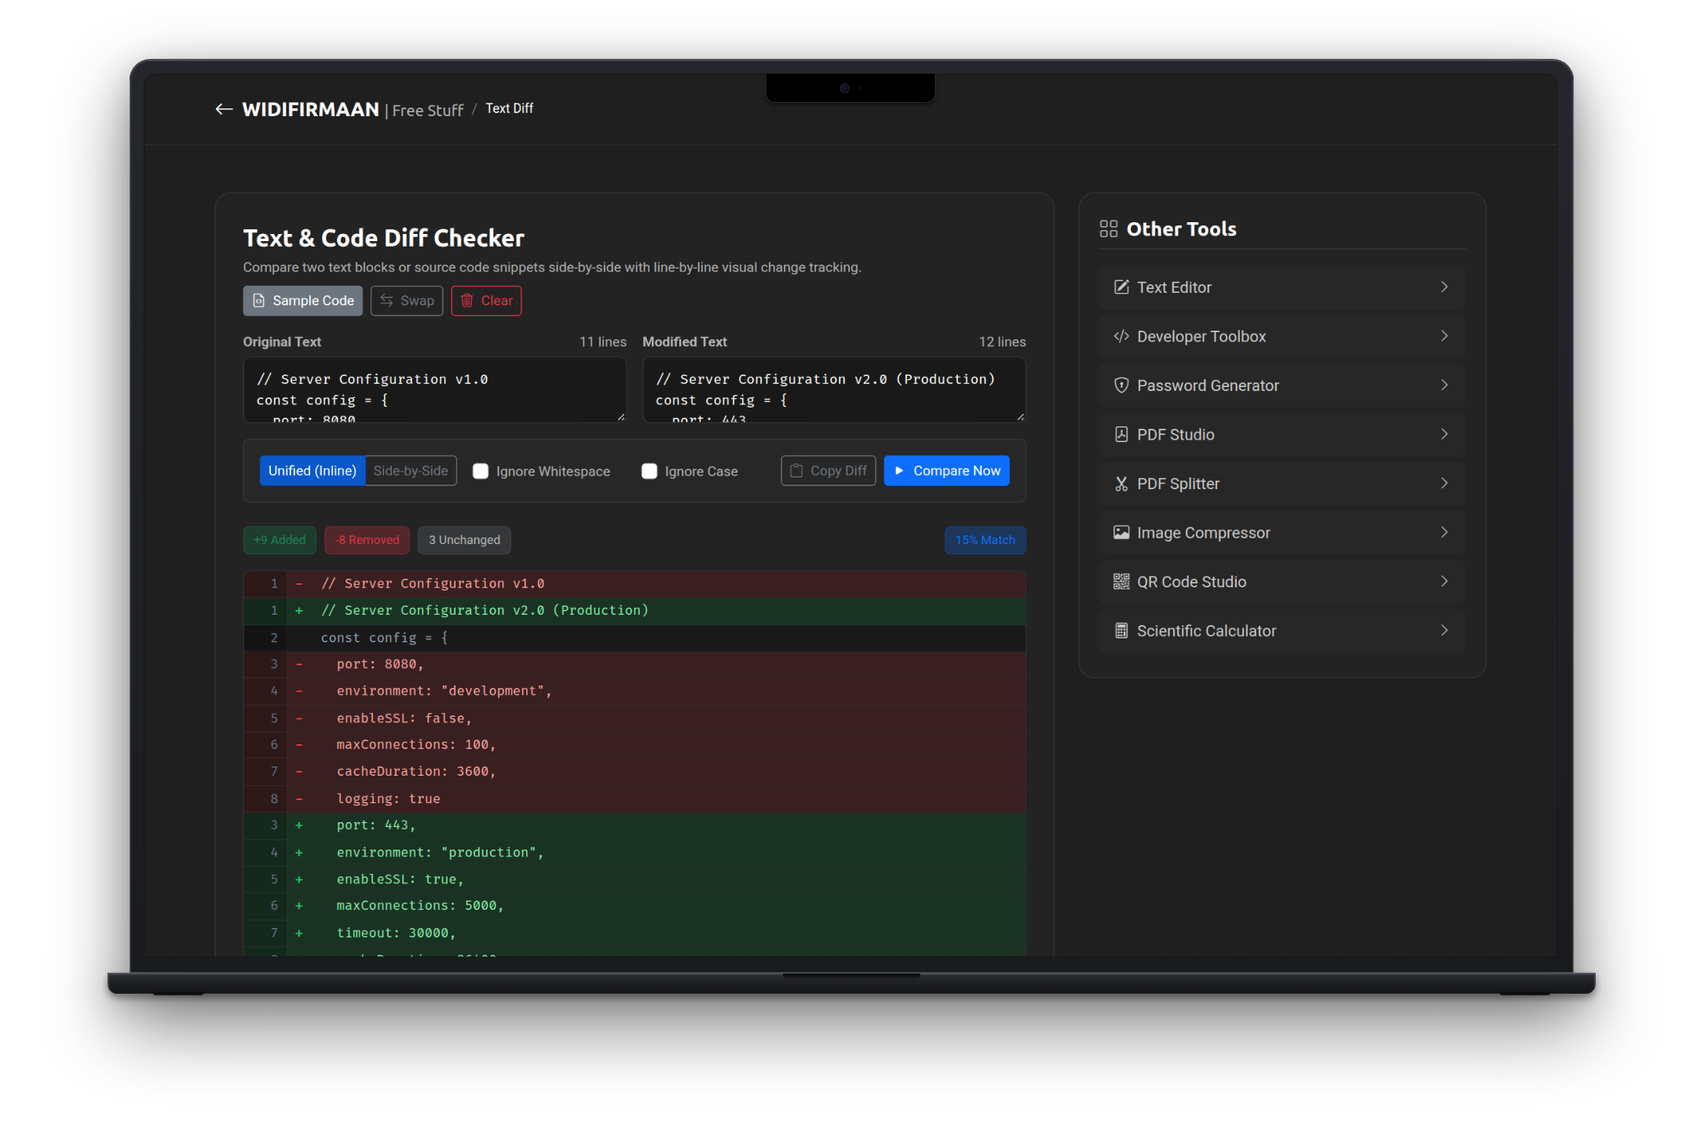
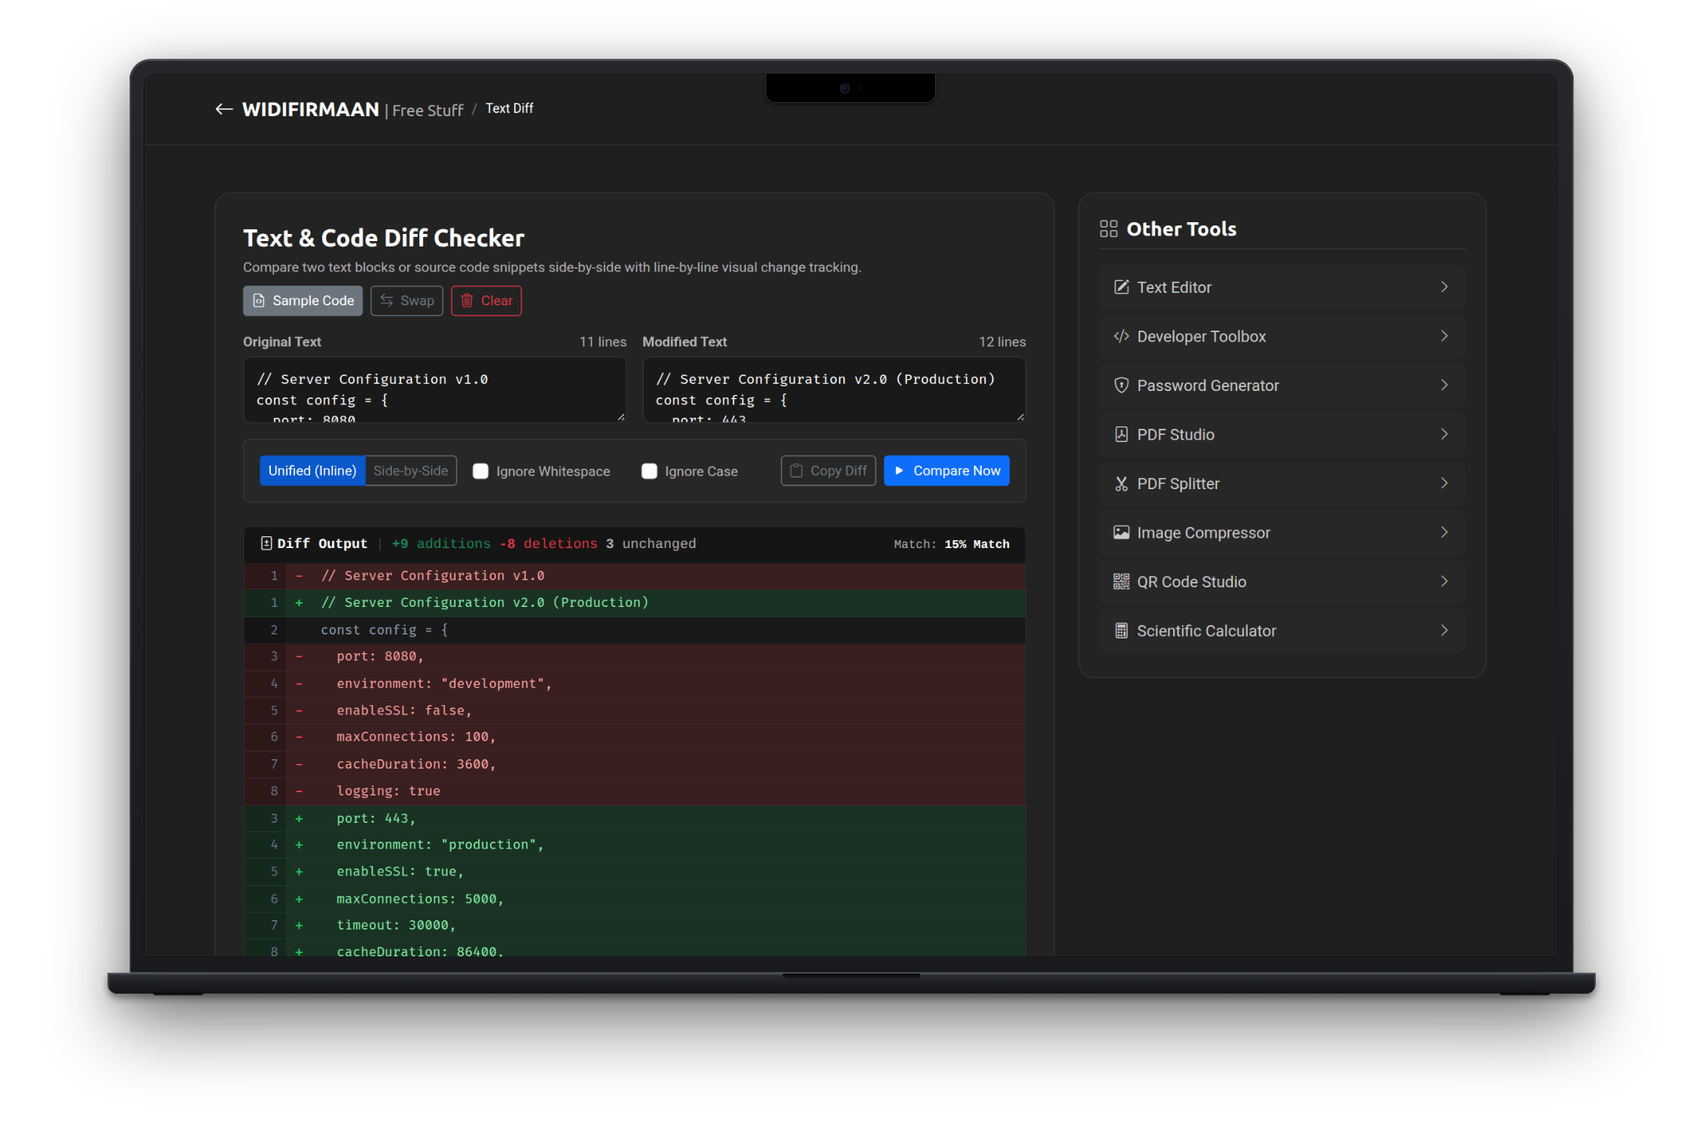
fix(ui): remove unnecessary elements and bloat wording, fix steganography desktop layout, and clean up diff stats

Changed region(s): [[0.1235, 0.4619, 0.6175, 0.8621], [0.5249, 0.4619, 0.6175, 0.4927], [0.3705, 0.4619, 0.4014, 0.4927]]

diff --git a/tools/color-palette.html b/tools/color-palette.html
@@ -5,7 +5,7 @@
   <meta charset="utf-8">
   <meta content="width=device-width, initial-scale=1.0" name="viewport">
   <title>Color Palette Extractor - Extract Colors from Images - WIDIFIRMAAN Tools</title>
-  <meta name="description" content="100% private, client-side color palette extractor. Extract dominant colors from images, check WCAG accessibility contrast, and export CSS/Tailwind variables.">
+  <meta name="description" content="100% private, client-side color palette extractor. Extract dominant colors from images and export CSS, HEX, and Tailwind variables.">
   <link href="../assets/img/favicon.png" rel="icon">
   <link href="../assets/img/apple-touch-icon.png" rel="apple-touch-icon">
   <link href="../assets/vendor/bootstrap/css/bootstrap.min.css" rel="stylesheet">
@@ -65,12 +65,6 @@
       font-size: 0.75rem;
       color: #94a3b8;
     }
-    .contrast-badge {
-      font-size: 0.72rem;
-      padding: 2px 6px;
-      border-radius: 4px;
-      font-weight: 600;
-    }
     .preview-img-container {
       max-height: 320px;
       overflow: hidden;
@@ -119,7 +113,7 @@
                 <div>
                   <h2 class="fs-4 fw-bold text-white mb-1">Color Palette Extractor</h2>
                   <p class="text-secondary small mb-0">
-                    Extract dominant color palettes from any photo or design locally in your browser. Inspect WCAG contrast and export variables.
+                    Extract dominant color palettes from any photo or design locally in your browser. Export HEX, CSS variables, or download a palette card.
                   </p>
                 </div>
                 <div class="d-flex gap-2">
@@ -178,28 +172,6 @@
                 <h6 class="text-white fw-bold mb-2">Dominant Colors (Click to Copy HEX):</h6>
                 <div class="palette-swatches-grid" id="swatchesGrid">
                   <!-- Swatches dynamically populated -->
-                </div>
-
-                <!-- WCAG Accessibility & Contrast Table -->
-                <div class="p-3 rounded border border-secondary border-opacity-25 mb-3" style="background: rgba(255, 255, 255, 0.02);">
-                  <h6 class="text-white fw-bold mb-2"><i class="bi bi-universal-access me-2 text-primary"></i>WCAG 2.1 Accessibility Contrast</h6>
-                  <p class="text-secondary small mb-3">Contrast ratio of each extracted color against white and dark backgrounds:</p>
-                  <div class="table-responsive">
-                    <table class="table table-dark table-sm table-borderless align-middle mb-0" style="background: transparent;">
-                      <thead>
-                        <tr class="text-secondary small border-bottom border-secondary border-opacity-25">
-                          <th>Color</th>
-                          <th>HEX</th>
-                          <th>vs White (#FFF)</th>
-                          <th>vs Black (#000)</th>
-                          <th>Best Text Match</th>
-                        </tr>
-                      </thead>
-                      <tbody id="contrastTableBody" class="small">
-                        <!-- Populated dynamically -->
-                      </tbody>
-                    </table>
-                  </div>
                 </div>
 
               </div>
@@ -281,7 +253,6 @@
     const colorCountRange = document.getElementById('colorCountRange');
     const colorCountLabel = document.getElementById('colorCountLabel');
     const swatchesGrid = document.getElementById('swatchesGrid');
-    const contrastTableBody = document.getElementById('contrastTableBody');
     const btnSample = document.getElementById('btnSample');
     const btnCopyCss = document.getElementById('btnCopyCss');
     const btnCopyJson = document.getElementById('btnCopyJson');
@@ -431,7 +402,6 @@
       });
 
       renderSwatches();
-      renderContrastTable();
     }
 
     function rgbToHex(r, g, b) {
@@ -477,31 +447,6 @@
           });
         });
         swatchesGrid.appendChild(card);
-      });
-    }
-
-    function renderContrastTable() {
-      contrastTableBody.innerHTML = '';
-      const whiteLum = 1.0;
-      const blackLum = 0.0;
-
-      extractedColors.forEach(c => {
-        const ratioWhite = getContrastRatio(c.lum, whiteLum);
-        const ratioBlack = getContrastRatio(c.lum, blackLum);
-
-        const badgeWhite = ratioWhite >= 7.0 ? '<span class="contrast-badge bg-success text-white">AAA (Pass)</span>' : (ratioWhite >= 4.5 ? '<span class="contrast-badge bg-primary text-white">AA (Pass)</span>' : '<span class="contrast-badge bg-danger text-white">Fail</span>');
-        const badgeBlack = ratioBlack >= 7.0 ? '<span class="contrast-badge bg-success text-white">AAA (Pass)</span>' : (ratioBlack >= 4.5 ? '<span class="contrast-badge bg-primary text-white">AA (Pass)</span>' : '<span class="contrast-badge bg-danger text-white">Fail</span>');
-        const bestText = ratioWhite >= ratioBlack ? '<span class="text-white fw-bold">White (#FFF)</span>' : '<span class="text-secondary fw-bold">Black (#000)</span>';
-
-        const row = document.createElement('tr');
-        row.innerHTML = `
-          <td><span class="d-inline-block rounded-circle me-2" style="width: 14px; height: 14px; background-color: ${c.hex}; vertical-align: middle;"></span></td>
-          <td class="font-monospace text-white">${c.hex}</td>
-          <td>${ratioWhite.toFixed(2)}:1 ${badgeWhite}</td>
-          <td>${ratioBlack.toFixed(2)}:1 ${badgeBlack}</td>
-          <td>${bestText}</td>
-        `;
-        contrastTableBody.appendChild(row);
       });
     }
 

diff --git a/tools/text-diff.html b/tools/text-diff.html
@@ -99,11 +99,6 @@
     .diff-side-col:last-child {
       border-right: none;
     }
-    .diff-badge {
-      font-size: 0.78rem;
-      padding: 4px 10px;
-      border-radius: 6px;
-    }
   </style>
 </head>
 
@@ -198,16 +193,22 @@
                 </div>
               </div>
 
-              <!-- Statistics & Summary Bar -->
-              <div class="d-flex align-items-center gap-2 mb-3 flex-wrap" id="diffStatsBar">
-                <span class="diff-badge bg-success bg-opacity-25 text-success border border-success border-opacity-25" id="badgeAdded">+0 Added</span>
-                <span class="diff-badge bg-danger bg-opacity-25 text-danger border border-danger border-opacity-25" id="badgeRemoved">-0 Removed</span>
-                <span class="diff-badge bg-secondary bg-opacity-25 text-secondary border border-secondary border-opacity-25" id="badgeUnchanged">0 Unchanged</span>
-                <span class="diff-badge bg-primary bg-opacity-25 text-primary border border-primary border-opacity-25 ms-auto" id="badgeSimilarity">100% Identical</span>
+              <!-- Diff Header & Summary Bar -->
+              <div class="d-flex align-items-center justify-content-between px-3 py-2 border border-secondary border-opacity-25 border-bottom-0 rounded-top text-secondary small flex-wrap gap-2" style="background: #151515;">
+                <div class="d-flex align-items-center gap-2 font-monospace flex-wrap">
+                  <span class="text-white fw-semibold"><i class="bi bi-file-diff me-1"></i>Diff Output</span>
+                  <span class="text-secondary opacity-25">|</span>
+                  <span class="text-success"><strong id="badgeAdded">+0</strong> additions</span>
+                  <span class="text-danger"><strong id="badgeRemoved">-0</strong> deletions</span>
+                  <span class="text-secondary"><strong id="badgeUnchanged">0</strong> unchanged</span>
+                </div>
+                <div class="font-monospace text-secondary small">
+                  Match: <span class="text-white fw-bold" id="badgeSimilarity">100%</span>
+                </div>
               </div>
 
               <!-- Visual Diff Output Box -->
-              <div id="diffOutput" class="diff-output-container p-0">
+              <div id="diffOutput" class="diff-output-container p-0 rounded-bottom rounded-top-0 border-top-0">
                 <div class="p-4 text-center text-secondary small">
                   <i class="bi bi-arrow-left-right fs-2 mb-2 d-block opacity-50"></i>
                   Enter text above and click <strong>Compare Now</strong> to view the visual difference.
@@ -361,10 +362,10 @@
             <i class="bi bi-arrow-left-right fs-2 mb-2 d-block opacity-50"></i>
             Enter text above and click <strong>Compare Now</strong> to view the visual difference.
           </div>`;
-        badgeAdded.textContent = '+0 Added';
-        badgeRemoved.textContent = '-0 Removed';
-        badgeUnchanged.textContent = '0 Unchanged';
-        badgeSimilarity.textContent = '100% Identical';
+        badgeAdded.textContent = '+0';
+        badgeRemoved.textContent = '-0';
+        badgeUnchanged.textContent = '0';
+        badgeSimilarity.textContent = '100%';
         lastDiffResult = null;
         return;
       }
@@ -387,9 +388,9 @@
         else unchangedCount++;
       });
 
-      badgeAdded.textContent = `+${addedCount} Added`;
-      badgeRemoved.textContent = `-${removedCount} Removed`;
-      badgeUnchanged.textContent = `${unchangedCount} Unchanged`;
+      badgeAdded.textContent = `+${addedCount}`;
+      badgeRemoved.textContent = `-${removedCount}`;
+      badgeUnchanged.textContent = `${unchangedCount}`;
 
       const totalOperations = addedCount + removedCount + unchangedCount;
       const similarity = totalOperations > 0 ? Math.round((unchangedCount / totalOperations) * 100) : 100;

diff --git a/tools/regex-visualizer.html b/tools/regex-visualizer.html
@@ -215,24 +215,6 @@
             <div class="d-flex flex-column gap-4">
               <div class="tool-sidebar-card">
                 <h5 class="fw-bold mb-3 pb-2 border-bottom border-secondary border-opacity-25 text-white">
-                  <i class="bi bi-book me-2 text-secondary"></i>Regex Cheat Sheet
-                </h5>
-                <div class="text-secondary small d-flex flex-column gap-2">
-                  <div class="d-flex justify-content-between"><code class="text-info">\d</code> <span>Any digit (0-9)</span></div>
-                  <div class="d-flex justify-content-between"><code class="text-info">\w</code> <span>Word character</span></div>
-                  <div class="d-flex justify-content-between"><code class="text-info">\s</code> <span>Whitespace space/tab</span></div>
-                  <div class="d-flex justify-content-between"><code class="text-info">[abc]</code> <span>Any of a, b, or c</span></div>
-                  <div class="d-flex justify-content-between"><code class="text-info">[^a]</code> <span>Not 'a'</span></div>
-                  <div class="d-flex justify-content-between"><code class="text-info">a* / a+</code> <span>0+ / 1+ occurrences</span></div>
-                  <div class="d-flex justify-content-between"><code class="text-info">a?</code> <span>Optional (0 or 1)</span></div>
-                  <div class="d-flex justify-content-between"><code class="text-info">a{2,5}</code> <span>Between 2 and 5 times</span></div>
-                  <div class="d-flex justify-content-between"><code class="text-info">(a|b)</code> <span>Either 'a' or 'b'</span></div>
-                  <div class="d-flex justify-content-between"><code class="text-info">^ / $</code> <span>Start / End of line</span></div>
-                </div>
-              </div>
-
-              <div class="tool-sidebar-card">
-                <h5 class="fw-bold mb-3 pb-2 border-bottom border-secondary border-opacity-25 text-white">
                   <i class="bi bi-grid me-2 text-secondary"></i>Other Tools
                 </h5>
                 <div class="d-flex flex-column gap-1">

diff --git a/tools/file-encryptor.html b/tools/file-encryptor.html
@@ -51,9 +51,9 @@
             <div class="tool-card">
               <div class="d-flex justify-content-between align-items-start mb-3 flex-wrap gap-2">
                 <div>
-                  <h2 class="fs-4 fw-bold text-white mb-1">Client-Side Military-Grade Encryption</h2>
+                  <h2 class="fs-4 fw-bold text-white mb-1">File Encryptor & Decryptor</h2>
                   <p class="text-secondary small mb-0">
-                    Encrypt any file with AES-GCM 256-bit & PBKDF2 (100,000 iterations). 100% processed in memory.
+                    Encrypt and decrypt files locally with AES-256-GCM. 100% processed in-browser.
                   </p>
                 </div>
                 <button type="button" class="btn btn-sm btn-outline-secondary" id="btnLoadSampleDoc">
@@ -218,18 +218,6 @@
           <!-- Sidebar Column (Col 4) -->
           <div class="col-lg-4">
             <div class="d-flex flex-column gap-4">
-              <div class="tool-sidebar-card">
-                <h5 class="fw-bold mb-3 pb-2 border-bottom border-secondary border-opacity-25 text-white">
-                  <i class="bi bi-info-circle me-2 text-secondary"></i>Security Details
-                </h5>
-                <ul class="text-secondary small ps-3 mb-0 d-flex flex-column gap-2">
-                  <li><strong>Algorithm:</strong> AES-GCM 256-bit (Galois/Counter Mode).</li>
-                  <li><strong>Key Derivation:</strong> PBKDF2 with SHA-256 and 100,000 hash iterations.</li>
-                  <li><strong>Authentication:</strong> 128-bit integrity tag prevents tampering.</li>
-                  <li><strong>Zero Server:</strong> Everything runs locally in browser RAM using Web Crypto API.</li>
-                </ul>
-              </div>
-
               <div class="tool-sidebar-card">
                 <h5 class="fw-bold mb-3 pb-2 border-bottom border-secondary border-opacity-25 text-white">
                   <i class="bi bi-grid me-2 text-secondary"></i>Other Tools

diff --git a/tools/steganography.html b/tools/steganography.html
@@ -96,8 +96,6 @@
                       <i class="bi bi-folder2-open me-1"></i> Select Image
                     </button>
                   </div>
-                    </button>
-                  </div>
 
                   <!-- Image Preview & Capacity -->
                   <div id="imageBoxEncode" class="mb-4 d-none">
@@ -210,18 +208,6 @@
           <!-- Sidebar Column (Col 4) -->
           <div class="col-lg-4">
             <div class="d-flex flex-column gap-4">
-              <div class="tool-sidebar-card">
-                <h5 class="fw-bold mb-3 pb-2 border-bottom border-secondary border-opacity-25 text-white">
-                  <i class="bi bi-info-circle me-2 text-secondary"></i>How It Works
-                </h5>
-                <ul class="text-secondary small ps-3 mb-0 d-flex flex-column gap-2">
-                  <li><strong>LSB Technique:</strong> Replaces lowest bit of RGB channels without changing visible appearance.</li>
-                  <li><strong>Capacity:</strong> Each pixel holds 3 bits of data (R, G, and B channels).</li>
-                  <li><strong>Lossless Format:</strong> Must be saved as PNG. Lossy formats discard LSB data.</li>
-                  <li><strong>Optional Encryption:</strong> AES-GCM 256-bit password protection.</li>
-                </ul>
-              </div>
-
               <div class="tool-sidebar-card">
                 <h5 class="fw-bold mb-3 pb-2 border-bottom border-secondary border-opacity-25 text-white">
                   <i class="bi bi-grid me-2 text-secondary"></i>Other Tools

diff --git a/tools/barcode-studio.html b/tools/barcode-studio.html
@@ -161,18 +161,6 @@
             <div class="d-flex flex-column gap-4">
               <div class="tool-sidebar-card">
                 <h5 class="fw-bold mb-3 pb-2 border-bottom border-secondary border-opacity-25 text-white">
-                  <i class="bi bi-info-circle me-2 text-secondary"></i>Barcode Standards
-                </h5>
-                <ul class="text-secondary small ps-3 mb-0 d-flex flex-column gap-2">
-                  <li><strong>EAN-13 & UPC-A:</strong> Standard retail point-of-sale barcodes with automated modulo-10 parity check digit.</li>
-                  <li><strong>Code 128:</strong> High-density barcode encoding any ASCII character. Standard in shipping and courier logistics.</li>
-                  <li><strong>Code 39:</strong> Widely adopted by the DoD and automotive industry for asset tagging.</li>
-                  <li><strong>Vector Precision:</strong> Exports crisp, scale-independent SVG ready for high-resolution thermal label printers.</li>
-                </ul>
-              </div>
-
-              <div class="tool-sidebar-card">
-                <h5 class="fw-bold mb-3 pb-2 border-bottom border-secondary border-opacity-25 text-white">
                   <i class="bi bi-grid me-2 text-secondary"></i>Other Tools
                 </h5>
                 <div class="d-flex flex-column gap-1">

diff --git a/tools/ascii-art.html b/tools/ascii-art.html
@@ -155,18 +155,6 @@
             <div class="d-flex flex-column gap-4">
               <div class="tool-sidebar-card">
                 <h5 class="fw-bold mb-3 pb-2 border-bottom border-secondary border-opacity-25 text-white">
-                  <i class="bi bi-terminal me-2 text-secondary"></i>Use Cases
-                </h5>
-                <ul class="text-secondary small ps-3 mb-0 d-flex flex-column gap-2">
-                  <li><strong>README & GitHub Banners:</strong> Add stylized headers to your open-source projects.</li>
-                  <li><strong>CLI Terminal Tools:</strong> Copy ANSI 24-bit codes for command-line welcoming banners.</li>
-                  <li><strong>Code Comments:</strong> Embed ASCII diagrams and illustrations in code files.</li>
-                  <li><strong>100% In-Browser:</strong> Canvas pixel luminescence math without server bandwidth.</li>
-                </ul>
-              </div>
-
-              <div class="tool-sidebar-card">
-                <h5 class="fw-bold mb-3 pb-2 border-bottom border-secondary border-opacity-25 text-white">
                   <i class="bi bi-grid me-2 text-secondary"></i>Other Tools
                 </h5>
                 <div class="d-flex flex-column gap-1">

diff --git a/tools/audio-tuner.html b/tools/audio-tuner.html
@@ -208,17 +208,6 @@
             <div class="d-flex flex-column gap-4">
               <div class="tool-sidebar-card">
                 <h5 class="fw-bold mb-3 pb-2 border-bottom border-secondary border-opacity-25 text-white">
-                  <i class="bi bi-info-circle me-2 text-secondary"></i>How It Works
-                </h5>
-                <ul class="text-secondary small ps-3 mb-0 d-flex flex-column gap-2">
-                  <li><strong>Autocorrelation:</strong> Analyzes waveform time-domain data to isolate fundamental pitch.</li>
-                  <li><strong>Sub-Cent Interpolation:</strong> Parabolic math ensures sub-cent tuning accuracy.</li>
-                  <li><strong>Reference Tone:</strong> Play pure reference sound by clicking any instrument string.</li>
-                </ul>
-              </div>
-
-              <div class="tool-sidebar-card">
-                <h5 class="fw-bold mb-3 pb-2 border-bottom border-secondary border-opacity-25 text-white">
                   <i class="bi bi-grid me-2 text-secondary"></i>Other Tools
                 </h5>
                 <div class="d-flex flex-column gap-1">

diff --git a/tools/password-generator.html b/tools/password-generator.html
@@ -207,7 +207,7 @@
                     <div class="d-flex justify-content-between text-secondary" style="font-size: 0.75rem;">
                       <span>3 Words</span>
                       <span>4 (Standard)</span>
-                      <span>6 (Ultra Secure)</span>
+                      <span>6 (Strong)</span>
                       <span>8 Words</span>
                     </div>
                   </div>
@@ -448,7 +448,7 @@
       let crackTime = '< 1 second';
 
       if (entropy >= 80) {
-        label = 'Unbreakable';
+        label = 'Very Strong';
         color = '#10b981';
         pct = 100;
         crackTime = 'Centuries+';

diff --git a/index.html b/index.html
@@ -300,7 +300,7 @@
                 </a>
               </h3>
               <p>
-                Extract dominant color palettes from photos, inspect WCAG contrast, and export CSS & Tailwind variables.
+                Extract dominant color palettes from photos, export CSS variables, and save palette cards.
               </p>
             </div>
           </div>

diff --git a/README.md b/README.md
@@ -95,8 +95,7 @@ All 23 tools are executed 100% locally in the browser without uploading document
   - Instant image conversion between JPG, PNG, and WebP formats using HTML5 Canvas APIs.
 - **Color Palette Extractor** (`tools/color-palette.html`):
   - Extracts dominant and harmonious color palettes from images using Median-Cut color quantization on HTML5 Canvas.
-  - Swatch displays with HEX, RGB, HSL values, 1-click CSS variable export, JSON export, and downloadable PNG palette card.
-  - Automated WCAG 2.1 contrast ratio scoring against pure white and pure black for accessibility.
+  - Swatch displays with HEX and RGB values, 1-click CSS variable export, JSON export, and downloadable PNG palette card.
 - **SVG Minifier** (`tools/svg-minifier.html`):
   - Strips XML declarations, doctypes, comments, and editor-specific metadata namespaces (Illustrator, Inkscape, Figma).
   - Rounds path coordinate precision, collapses redundant whitespace, and provides live side-by-side vector preview with savings percentage.
@@ -172,7 +171,7 @@ All 23 tools are executed 100% locally in the browser without uploading document
 │   ├── text-diff.html       # Text Diff comparison (LCS, side-by-side & unified)
 │   ├── password-generator.html # Web Crypto secure password & passphrase generator
 │   ├── pdf-splitter.html    # PDF Splitter & page range extractor
-│   ├── color-palette.html   # Canvas color palette extractor & WCAG contrast checker
+│   ├── color-palette.html   # Canvas color palette extractor & CSS variable generator
 │   ├── svg-minifier.html    # SVG Minifier & coordinate optimizer
 │   ├── audio-cutter.html    # Web Audio waveform cutter & WAV generator
 │   ├── photo-metadata.html  # Binary EXIF parser & privacy metadata wiper
